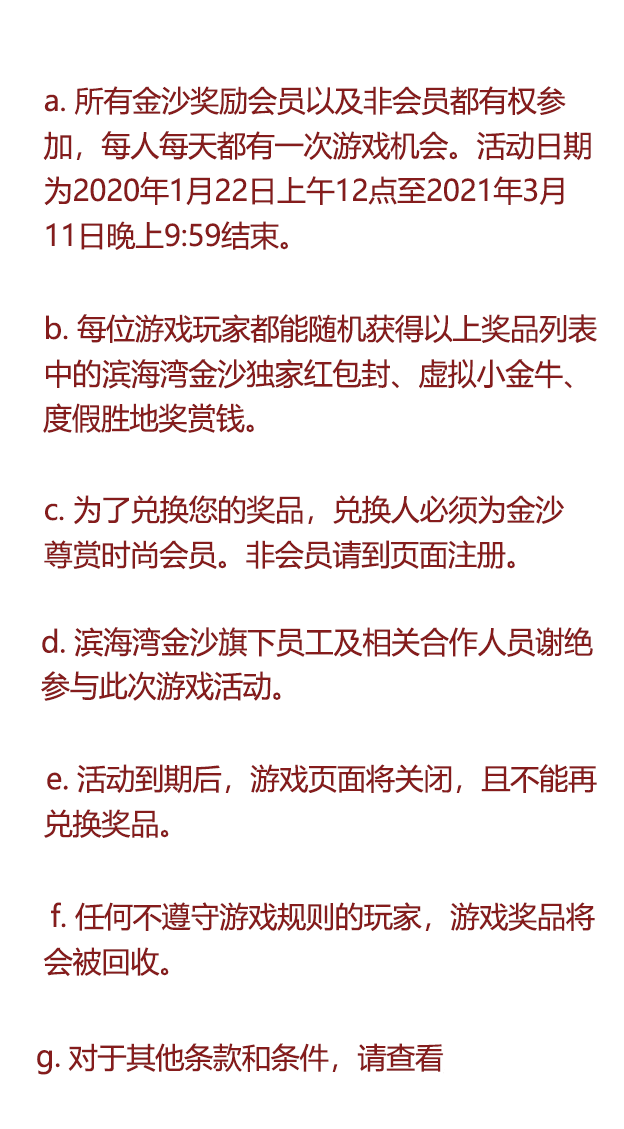
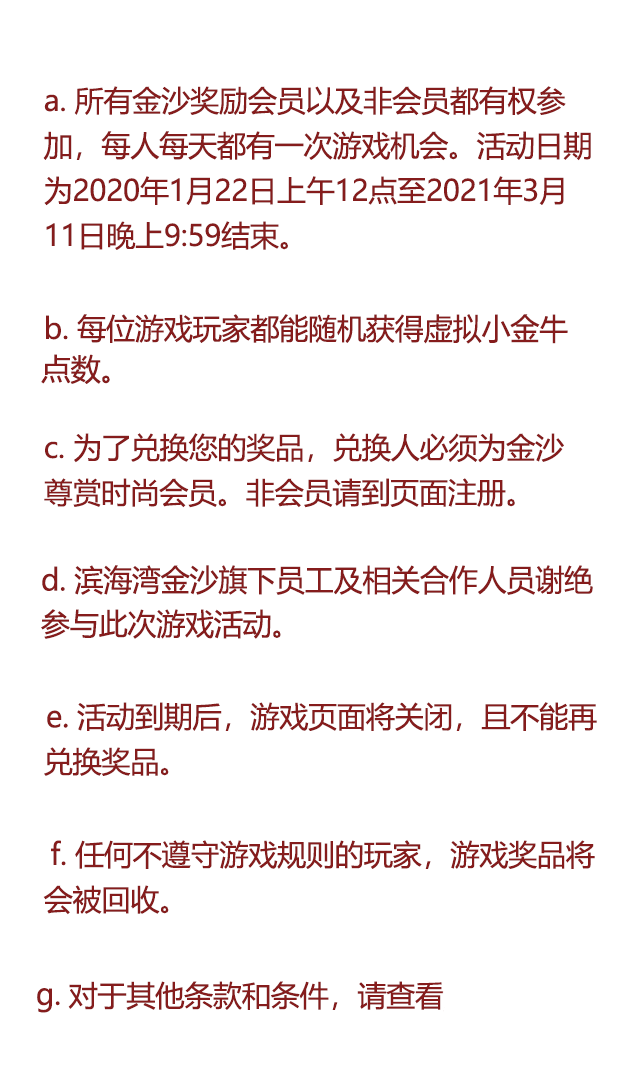
image redo

diff --git a/src/PrizeAndRules.ts b/src/PrizeAndRules.ts
@@ -5,7 +5,7 @@ class PrizeAndRules extends eui.UILayer {
     private currentAd="0";
 
     private currentAe="0";
-
+    private prizeBg;
 
     public constructor() {
         super();    
@@ -46,8 +46,9 @@ class PrizeAndRules extends eui.UILayer {
         myPrizeInfo_cnt.alpha = 0;
 
         var my_prize_info_bg = createBitmap("TextBG_png");
+        this.prizeBg = my_prize_info_bg;
         my_prize_info_bg.x = _that.stage.stageWidth * 0.5 - my_prize_info_bg.width*0.5;
-        my_prize_info_bg.y = _that.stage.stageHeight * 0.02;
+        my_prize_info_bg.y = _that.stage.stageHeight * 0.10;
         var prizeHeight = this.stage.stageHeight * 0.45;
         var multi = my_prize_info_bg.height/prizeHeight;
         if(prizeHeight>my_prize_info_bg.height){
@@ -84,37 +85,37 @@ class PrizeAndRules extends eui.UILayer {
             ac_content.x = 200;
             ac_content.textColor = textColor;
             //ac_content.y = (this.stage.stageHeight * 0.05+305+ textSize*i)/multi;
-            ac_content.y = (my_prize_info_bg.y + 363 + textSize*i)/multi;
+            ac_content.y = (my_prize_info_bg.y + 175 + textSize*i)/multi;
             ac_content.fontFamily="Microsoft YaHei";
             ac_content.y+= (i?1:0)*15;
             myPrizeInfo_cnt.addChild(ac_content);
         }
 
-        var rp_png = createBitmap("Red Packet Symbol_png");
-        for(var i=0;i<Main.staticEnvPrizeList.length;i++){
-            var ae_content = createTextFiledNoEui(Main.staticEnvPrizeList[i]);
-            ae_content.size = textSize;
-            ae_content.x = 200;
-            ae_content.fontFamily="Microsoft YaHei";
-            ae_content.textColor = textColor;
-            ae_content.y = (my_prize_info_bg.y + 550+ textSize*i)/multi;
-            ae_content.y+= (i?1:0)*15;
-            myPrizeInfo_cnt.addChild(ae_content);
-        }
+        // var rp_png = createBitmap("Red Packet Symbol_png");
+        // for(var i=0;i<Main.staticEnvPrizeList.length;i++){
+        //     var ae_content = createTextFiledNoEui(Main.staticEnvPrizeList[i]);
+        //     ae_content.size = textSize;
+        //     ae_content.x = 200;
+        //     ae_content.fontFamily="Microsoft YaHei";
+        //     ae_content.textColor = textColor;
+        //     ae_content.y = (my_prize_info_bg.y + 550+ textSize*i)/multi;
+        //     ae_content.y+= (i?1:0)*15;
+        //     myPrizeInfo_cnt.addChild(ae_content);
+        // }
 
 
-        var dd_png = createBitmap("Dollar Symbol_png");
+        // var dd_png = createBitmap("Dollar Symbol_png");
          
-        for(var i =0;i< Main.staticDDPrizeList.length ; i++){
-            var ad_content = createTextFiledNoEui(Main.staticDDPrizeList[i]);
-            ad_content.size = textSize;
-            ad_content.x = 200;
-            ad_content.fontFamily="Microsoft YaHei";
-            ad_content.textColor = textColor;
-            ad_content.y = (my_prize_info_bg.y + 168 + textSize*i)/multi;
-            ad_content.y+= (i?1:0)*15;
-            myPrizeInfo_cnt.addChild(ad_content);
-        }
+        // for(var i =0;i< Main.staticDDPrizeList.length ; i++){
+        //     var ad_content = createTextFiledNoEui(Main.staticDDPrizeList[i]);
+        //     ad_content.size = textSize;
+        //     ad_content.x = 200;
+        //     ad_content.fontFamily="Microsoft YaHei";
+        //     ad_content.textColor = textColor;
+        //     ad_content.y = (my_prize_info_bg.y + 168 + textSize*i)/multi;
+        //     ad_content.y+= (i?1:0)*15;
+        //     myPrizeInfo_cnt.addChild(ad_content);
+        // }
 
 
 
@@ -126,28 +127,29 @@ class PrizeAndRules extends eui.UILayer {
         var _scale = 1.5;
 
         
-        dd_png.scaleX = _scale;
-        dd_png.scaleY = _scale;
-        dd_png.x = 150 - dd_png.width;
-        dd_png.y =  (my_prize_info_bg.y + 165)/multi;
+        // dd_png.scaleX = _scale;
+        // dd_png.scaleY = _scale;
+        // dd_png.x = 150 - dd_png.width;
+        // dd_png.y =  (my_prize_info_bg.y + 165)/multi;
 
 
         coins_png.scaleX = _scale;
         coins_png.scaleY = _scale;
         coins_png.x = 150 - coins_png.width;
-        coins_png.y = (my_prize_info_bg.y + 350)/multi;
+        //coins_png.y = (my_prize_info_bg.y + 350)/multi;
+        coins_png.y = (my_prize_info_bg.y + 165)/multi;
 
-        rp_png.scaleX = _scale;
-        rp_png.scaleY = _scale;
-        rp_png.x = 150 - rp_png.width;
-        rp_png.y = (my_prize_info_bg.y + 535)/multi;
+        // rp_png.scaleX = _scale;
+        // rp_png.scaleY = _scale;
+        // rp_png.x = 150 - rp_png.width;
+        // rp_png.y = (my_prize_info_bg.y + 535)/multi;
 
 
         myPrizeInfo_cnt.addChild(coins_png);
-        myPrizeInfo_cnt.addChild(dd_png);
-        myPrizeInfo_cnt.addChild(rp_png);
+        // myPrizeInfo_cnt.addChild(dd_png);
+        // myPrizeInfo_cnt.addChild(rp_png);
         myPrizeInfo_cnt.addChild(ac_content);
-        myPrizeInfo_cnt.addChild(ae_content);
+        // myPrizeInfo_cnt.addChild(ae_content);
 
         _that.addChild(myPrizeInfo_cnt);
 
@@ -169,11 +171,12 @@ class PrizeAndRules extends eui.UILayer {
 
         var rules_title_bg = createBitmap("Rules_title_png");
         rules_title_bg.x = _that.stage.stageWidth * 0.5 - rules_title_bg.width*0.5;
-        if(_that.stage.stageHeight * 0.45>=653){
-            rules_title_bg.y = _that.stage.stageHeight * 0.05+703;
-        }else{
-            rules_title_bg.y = _that.stage.stageHeight * 0.5;
-        }
+        // if(_that.stage.stageHeight * 0.45>=653){
+        //     rules_title_bg.y = _that.stage.stageHeight * 0.05+703;
+        // }else{
+        //     rules_title_bg.y = _that.stage.stageHeight * 0.5;
+        // }
+        rules_title_bg.y = this.prizeBg.y + this.prizeBg.height + 50;
         //var rules_title_eui_bg = createBitmapEui("Rules_title_png");
 
         
@@ -202,7 +205,7 @@ class PrizeAndRules extends eui.UILayer {
         tc.fontFamily="Microsoft YaHei";
             tc.size = 32;
             tc.x = 436;
-            tc.y = 973;
+            tc.y = 908;
             tc.textColor = 0x851c1c;
             tc.bold = true;
 
@@ -211,7 +214,7 @@ class PrizeAndRules extends eui.UILayer {
         myRulesInfo_cnt.addChild(tc);
         tc.touchEnabled = true;
              tc.addEventListener(egret.TouchEvent.TOUCH_TAP,function(){
-                 window.location.href="https://uat.marinabaysands.com/campaign/fortuneOx2021-terms-and-conditions.html";
+                 window.location.href=Main.baseUrl + "/campaign/fortuneOx2021-terms-and-conditions.html";
             },this);
 
         this.addChild(rules_title_bg);

diff --git a/src/MyPrizes.ts b/src/MyPrizes.ts
@@ -72,38 +72,39 @@ class MyPrizes extends eui.UILayer {
         ac_content.size = textSize
         ac_content.x = 200;
         ac_content.textColor = textColor;
-        ac_content.y = my_prize_info_bg.y + 360;
+        // ac_content.y = my_prize_info_bg.y + 360;
+        ac_content.y = my_prize_info_bg.y + 190;
         myPrizeInfo_cnt.addChild(ac_content);
 
-        var rp_png = createBitmap("Red Packet Symbol_png");
-        var aeTextBold = createTextFiledNoEui(MyPrizes.currentAe + mc_content.redPack);
-        aeTextBold.x = 200;
-        aeTextBold.bold = true;
-        aeTextBold.textColor = textColor;
-        aeTextBold.size = textSize;
-        aeTextBold.y = my_prize_info_bg.y + 555 ;
-        myPrizeInfo_cnt.addChild(aeTextBold);
+        // var rp_png = createBitmap("Red Packet Symbol_png");
+        // var aeTextBold = createTextFiledNoEui(MyPrizes.currentAe + mc_content.redPack);
+        // aeTextBold.x = 200;
+        // aeTextBold.bold = true;
+        // aeTextBold.textColor = textColor;
+        // aeTextBold.size = textSize;
+        // aeTextBold.y = my_prize_info_bg.y + 555 ;
+        // myPrizeInfo_cnt.addChild(aeTextBold);
 
 
-        var aeTextBold2 = createTextFiledNoEui(mc_content.ENVELOPES);
-        aeTextBold2.x = 200;
-        aeTextBold2.bold = true;
-        aeTextBold2.textColor = textColor;
-        aeTextBold2.size = textSize;
-        aeTextBold2.y = my_prize_info_bg.y + 540 + textSize;
-        myPrizeInfo_cnt.addChild(aeTextBold2);
+        // var aeTextBold2 = createTextFiledNoEui(mc_content.ENVELOPES);
+        // aeTextBold2.x = 200;
+        // aeTextBold2.bold = true;
+        // aeTextBold2.textColor = textColor;
+        // aeTextBold2.size = textSize;
+        // aeTextBold2.y = my_prize_info_bg.y + 540 + textSize;
+        // myPrizeInfo_cnt.addChild(aeTextBold2);
 
 
 
-        var dd_png = createBitmap("Dollar Symbol_png");
-        var ad_text = "$" + MyPrizes.currentAd + mc_content.ad_content;
-        var ad_content = createTextFiledNoEui(ad_text);
-        ad_content.bold = true;
-        ad_content.size = textSize;
-        ad_content.x = 200;
-        ad_content.textColor = textColor;
-        ad_content.y = my_prize_info_bg.y + 190;
-        myPrizeInfo_cnt.addChild(ad_content);
+        // var dd_png = createBitmap("Dollar Symbol_png");
+        // var ad_text = "$" + MyPrizes.currentAd + mc_content.ad_content;
+        // var ad_content = createTextFiledNoEui(ad_text);
+        // ad_content.bold = true;
+        // ad_content.size = textSize;
+        // ad_content.x = 200;
+        // ad_content.textColor = textColor;
+        // ad_content.y = my_prize_info_bg.y + 190;
+        // myPrizeInfo_cnt.addChild(ad_content);
 
 
 
@@ -117,32 +118,34 @@ class MyPrizes extends eui.UILayer {
         var _scale = 1.5;
 
         
-        dd_png.scaleX = _scale;
-        dd_png.scaleY = _scale;
-        dd_png.x = 150 - dd_png.width;
-        dd_png.y =  my_prize_info_bg.y + 165;
+        // dd_png.scaleX = _scale;
+        // dd_png.scaleY = _scale;
+        // dd_png.x = 150 - dd_png.width;
+        // dd_png.y =  my_prize_info_bg.y + 165;
 
 
         coins_png.scaleX = _scale;
         coins_png.scaleY = _scale;
         coins_png.x = 150 - coins_png.width;
-        coins_png.y = my_prize_info_bg.y + 350;
+        // coins_png.y = my_prize_info_bg.y + 350;
+         coins_png.y = my_prize_info_bg.y + 165;
 
-        rp_png.scaleX = _scale + 0.2;
-        rp_png.scaleY = _scale + 0.2;
-        rp_png.x = 150 - rp_png.width;
-        rp_png.y = my_prize_info_bg.y + 535;
+        // rp_png.scaleX = _scale + 0.2;
+        // rp_png.scaleY = _scale + 0.2;
+        // rp_png.x = 150 - rp_png.width;
+        // rp_png.y = my_prize_info_bg.y + 535;
 
 
         myPrizeInfo_cnt.addChild(coins_png);
-        myPrizeInfo_cnt.addChild(dd_png);
-        myPrizeInfo_cnt.addChild(rp_png);
+        // myPrizeInfo_cnt.addChild(dd_png);
+        // myPrizeInfo_cnt.addChild(rp_png);
 
         var tipsContent = createTextFiledNoEui(mc_content.RedeemTime);
         tipsContent.textColor = 0xFFFFFF;
         tipsContent.size = 30;
         tipsContent.x = (this.stage.stageWidth - tipsContent.width)*0.5;
-        tipsContent.y =this.stage.stageHeight * 0.56 + 35;
+        // tipsContent.y =this.stage.stageHeight * 0.56 + 35;
+        tipsContent.y = my_prize_info_bg.y + my_prize_info_bg.height + 35;
         this.addChild(tipsContent);
 
 

diff --git a/src/HowToRedeem.ts b/src/HowToRedeem.ts
@@ -29,17 +29,17 @@ class HowToRedeem extends eui.UILayer {
             p2Height = p2.height;
         }
           p1.height = p1Height;
-          p1.y = this.stage.stageHeight * 0.02;
+          p1.y = this.stage.stageHeight * 0.10;
 
           p2.height = p2Height;
           p2.y = p1.y + p1.height + 30;
 
-          tips.y = p2.y + p2.height + 10;
+          tips.y = p1.y + p1.height + 10;
 
         //   prizeRulesBtn.y = tips.y + tips.height + 40;
           prizeRulesBtn.y = this.stage.stageHeight * 0.91
           this.addChild(p1);
-          this.addChild(p2);
+        //   this.addChild(p2);
           this.addChild(tips);
           this.addChild(prizeRulesBtn);
 

diff --git a/src/Main.ts b/src/Main.ts
@@ -40,8 +40,8 @@ class Main extends egret.DisplayObjectContainer {
     static registLoginShow = false;
     //http://150.109.32.241:4503/
     //"https://staging.marinabaysands.com"
-    // static  baseUrl = window.location.protocol +"//" +window.location.host;
-    static  baseUrl = "https://staging.marinabaysands.com";
+    static  baseUrl = window.location.protocol +"//" +window.location.host;
+    // static  baseUrl = "https://staging.marinabaysands.com";
     private getProbabilityData = "/services/h5game/property";
     static patronRegisterUrl = "/services/members_card_register"
     static lotteryApi = "/services/h5game/lottery";
